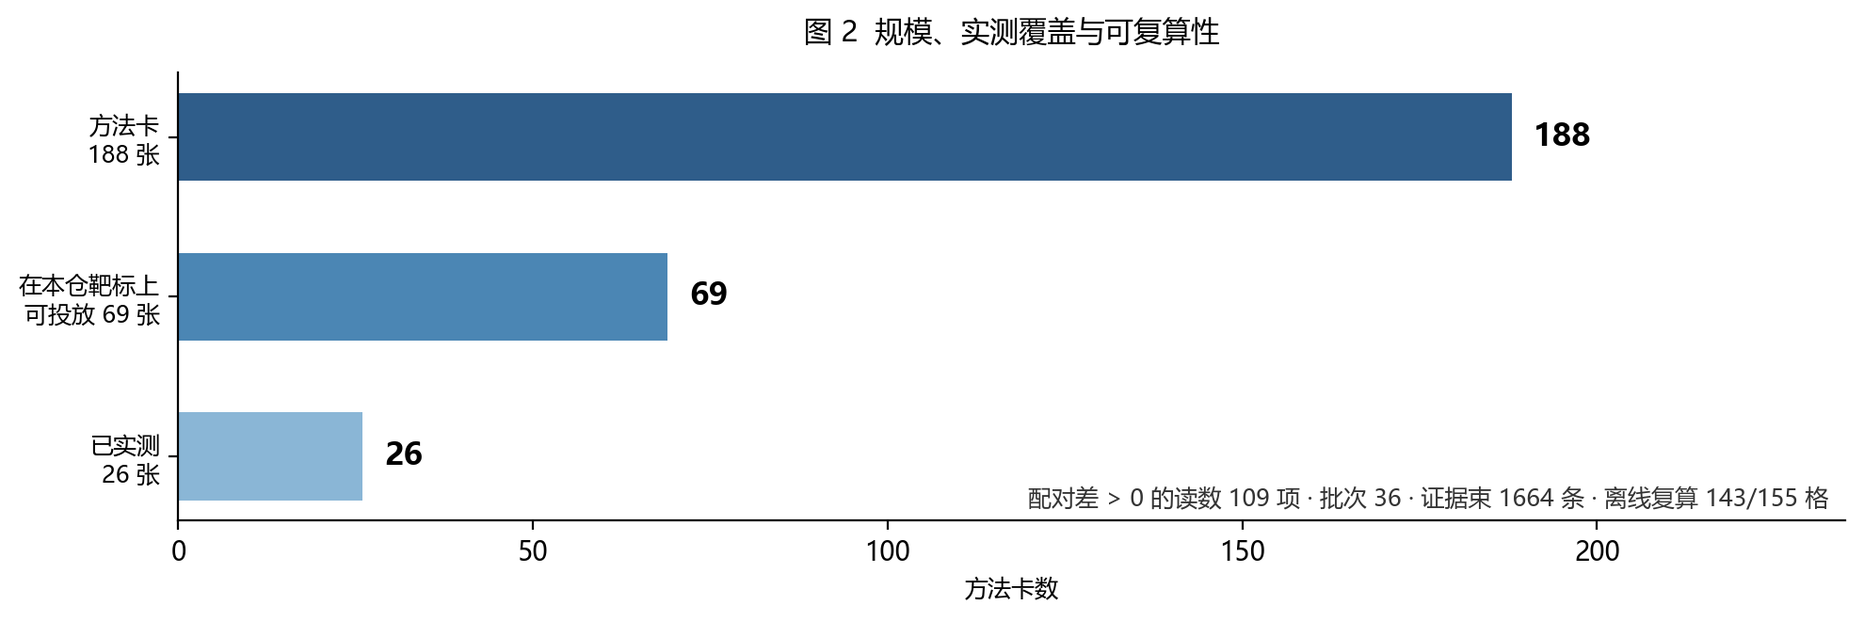
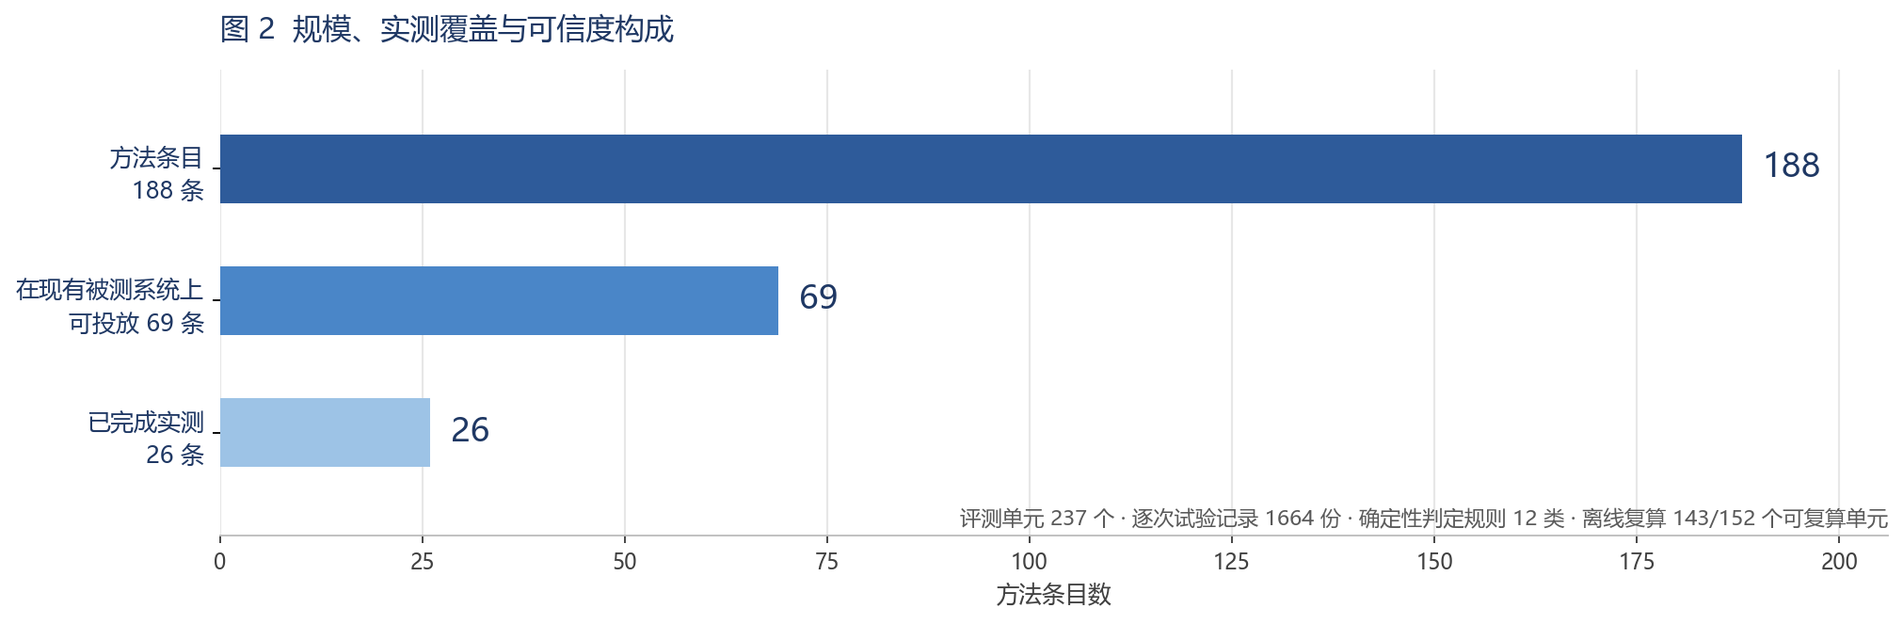
docs: 相关工作证据与图示更新，gate 修订计数引用判据并补回归测试
- docs/related-work.md：改为按三点（对象与覆盖 / 描述与脚本 / 实测与可信度）组织，补代码级检索轮次
- docs/figures：两张图重绘（专业口径、正圆标记）
- tools/gates.py：计数引用模式加左边界，避免小节号被误判为计数
- tests/test_gates_count_refs.py：钉住该判据两侧

diff --git a/tools/gates.py b/tools/gates.py
@@ -511,6 +511,15 @@ def _appendix_a_start(text: str) -> int:
 
 
 # ───────────────────────── Gate 1 / 2（占位） ─────────────────────────
+# schema 计数引用模式：独立成常量，以便把判据本身钉进回归测试。
+# `(?!\d)` 是必需的：否则「46 条规则22 WARN」（意为「20 条『规则22』的 WARN」）会被误读成
+#   「本行声明了 46 条规则」。实测被 T06 的上报文档撞出过这个假阳性。
+# `(?<![\d.])` 同样是必需的：否则小节标题「### 4.2 属性分布图」里的「2 属性」会被误读成
+#   「本行声明了 2 个属性」（schema 实为 37）。实测被检索证据文档撞出过这个假阳性（2026-10-10）。
+# 左边界后，计数必须自成词首：小节号（点号或数字之后）不再计入。
+SCHEMA_COUNT_PAT = re.compile(
+    r"(?<![\d.])(\d+)\s*(个?必填|个?属性|条\s*`?x-validation-rules`?|条\s*校验规则|条规则)(?!\d)")
+
 
 def check_card_contract_sync() -> CheckResult:
     """设计文档 ↔ schema 的字段对账。
@@ -608,9 +617,7 @@ def check_card_contract_sync() -> CheckResult:
         want = {"必填": len(S["required"]), "属性": len(S["properties"]),
                 "规则": len(S["x-validation-rules"]), "校验规则": len(S["x-validation-rules"]),
                 "x-validation-rules": len(S["x-validation-rules"])}
-        # `(?!\d)` 是必需的：否则「46 条规则22 WARN」（意为「20 条『规则22』的 WARN」）
-        # 会被误读成「本行声明了 47 条规则」。实测被 T06 的上报文档撞出过这个假阳性。
-        pat = re.compile(r"(\d+)\s*(个?必填|个?属性|条\s*`?x-validation-rules`?|条\s*校验规则|条规则)(?!\d)")
+        pat = SCHEMA_COUNT_PAT
         scanned = 0
         for p in list(ROOT.glob("*.md")) + list((ROOT / "docs").glob("*.md")) + \
                  list((ROOT / "项目说明").glob("*.md")) + list((ROOT / "spec").glob("*.md")):

diff --git a/tests/test_gates_count_refs.py b/tests/test_gates_count_refs.py
@@ -1,0 +1,53 @@
+# -*- coding: utf-8 -*-
+"""schema 计数引用判据：既要抓住真的计数漂移，也不能把小节号当计数。
+
+为什么值得钉住：这道闸门扫描仓库内的 Markdown，凡出现「N 属性 / N 必填 / N 条规则」就
+与 `spec/method-card.schema.json` 对账。写文档时小节标题形如「4.2 属性分布图」，其中的
+「2 属性」在无左边界时被读成「本行声明了 2 个属性」（schema 实为 37），闸门因此误报
+（2026-10-10 由检索证据文档撞出）。压假阳性的同时不得放宽到漏掉真漂移，所以两侧都钉。
+
+样例字符串**在运行期拼接**：本文件同样要过该闸门，测试自己不该成为例外。
+"""
+from __future__ import annotations
+
+import sys
+import unittest
+from pathlib import Path
+
+ROOT = Path(__file__).resolve().parents[1]
+sys.path.insert(0, str(ROOT))
+
+from tools.gates import SCHEMA_COUNT_PAT  # noqa: E402
+
+B = "必" + "填"
+S = "属" + "性"
+R = "条" + "规则"
+
+
+class TestSchemaCountPattern(unittest.TestCase):
+    def test_real_declarations_match(self):
+        cases = ["26 " + B + " / 37 " + S,
+                 "37 " + S,
+                 "共 47 " + R,
+                 "本节列出 12 个" + S,
+                 "schema 实为 37 " + S]
+        for s in cases:
+            self.assertTrue(SCHEMA_COUNT_PAT.search(s), s)
+
+    def test_section_numbers_are_not_counts(self):
+        cases = ["### 4.2 " + S + "分布图",
+                 "### 2.1 " + B + "项与默认值",
+                 "### 3.4 " + R + "的组织方式",
+                 "见 5.1 " + S + "对照表"]
+        for s in cases:
+            self.assertIsNone(SCHEMA_COUNT_PAT.search(s), s)
+
+    def test_glued_digits_are_not_counts(self):
+        cases = ["46 " + R + "22 WARN",
+                 "26 " + B + "0 项"]
+        for s in cases:
+            self.assertIsNone(SCHEMA_COUNT_PAT.search(s), s)
+
+
+if __name__ == "__main__":
+    unittest.main()

diff --git a/docs/related-work.md b/docs/related-work.md
@@ -1,89 +1,36 @@
-# 相关工作与定位证据
+# 检索证据：智能体攻击方法集的同类工作检索
 
-**主张（限定范围）**：在 2026-10-06 执行的检索范围内，未取得同时满足下列四项的公开工作——
+**检索基准日**：2026-10-06。星数、仓库结构与推送日均为该日读数。
 
-> ① 面向**工具调用型智能体**；
-> ② **涵盖多种攻击类别**；
-> ③ 每一类别**超过十余种**、总方法数丰富的**攻击方法**；
-> ④ 每条方法**绑定确定性判据**并配**可执行脚本**，且**随包证据可离线复算**。
+**本文件回答的问题**：公开文献与公开工件中是否已有同类工作，即**面向智能体的攻击方法集**。
 
-本文给出该结论所依据的分层现状、同层对照，以及检索的源、轮次与检索式（§4）。
+**同类判定标准**（三条，缺一不可）：
 
----
+- **对象与覆盖**：面向工具调用型智能体，后果落在记忆、审计记录、权限、控制面、工具定义、系统提示、服务可用性与业务数据；且类别足够广、方法足够多。
+- **描述与脚本**：每条方法一份描述（含公开出处）配一个可执行脚本，成对存在。
+- **实测与可信度**：是否完成实测、结论能否被第三方检验；确定性判定规则、同任务对照臂、逐次证据留存与离线复算均计入本条。
 
-## 1. 必要性：四层的现状与缺口
-
-**表 1　邻近工作的分层现状**
-
-| 层 | 该层提供 | 代表工作（规模为核实值） | 该层缺口 |
-|---|---|---|---|
-| 综述层 | 分类学与出处梳理 | Kim et al., USENIX Security 2026 SoK（128 篇 / 51 个攻击方法）；Wu et al., ACM CSUR 2026（5 风险域 / 24 类威胁）；Deng et al., ACM CSUR 2025（三层传播范围）；AgentAtlas, arXiv:2605.20530（15 个 agent benchmark 的 0/1/2 覆盖审计） | 无实现、无实测 |
-| 环境层 | 场景与任务（靶场） | AgentDojo（36 860 文件，三套件）；ASB, arXiv:2410.02644（10 场景 / 10 agent / 400+ 工具 / 400 任务 / 7 指标）；OpenART（★232，长程任务评估框架） | 攻击为环境组成部分（ASB 攻击实例 ≈16），非可逐条引用的方法资产 |
-| 工具层 | 将攻击 / 探针跑起来 | garak（probes 44 模块、detectors 31 模块）；promptfoo（157 插件）；PyRIT（含 converter 的 `.py` 244 个）；DeepTeam（20+ 攻击策略 × 50+ 漏洞类别）；agentic_security；AgentHound（★446，攻击面框架） | 方法单位为探针 / 策略 / 风险类别；判定多为模型打分；单臂报告 |
-| 规则层 | 检测与阻断 | Agent-Threat-Rule（22 308 文件、`rules/` 829，Sigma 式检测规则标准）；Janus（★17，工具调用策略执行） | 位于对侧，不提供攻击方法 |
-
-**方法层缺口即本工作的目标**：可引用（出处至图 / 表 / 章节）· 可执行（每条一份定义与一个派生脚本）· 可判定（确定性判据）· 可归因（配对对照效应量）· 可复核（证据束离线重算）。
-
-该缺口同样约束**防御评测**：判定一项防御的拦截幅度，需以"无防御时的逐方法基线"与"同一任务下良性对照的表现"为参照，并可扩展为 `{对抗臂, 良性对照臂} × {防御关, 防御开}` 的 2×2 设计，以分离防御效应与任务固有难度。这构成本工作的直接动因。
+**边界**：靶场（环境）类工作不属同类——其产出为场景、任务与运行环境，攻击在其中是环境自带的注入点或评测项，不是可逐条引用的方法资产。故下文将靶场、大模型红队工具、防御与综述一并单列，只说明关系。
 
 ---
 
-## 2. 独特性：同层对照
+## 一、检索方式
 
-同层（攻击方法库 / 可运行攻击集）可比对象共**四家**（图 1 给出五条可核性属性在五者间的分布）；表 2 末两行补登记后续检出的两家近邻，并给出全部对象的规模与计数单位。
+**文献源 6 个**：Crossref、DBLP、arXiv、OpenAIRE、Europe PMC、OpenAlex。逐检索式记录各源命中数；未答全的源如实入档（超时与限流不隐去）。
 
-![图 1](figures/related-work-matrix.png)
+**文献侧 5 轮 21 个检索式**：
 
-**表 2　同层工作的规模与计数单位**
-
-| 工作 | 规模 | 计数单位 | 类别数 | 出处密度 |
-|---|---|---|---|---|
-| **本工作** | **188**（各类 **17–29** 种） | 逐条对应一篇公开文献中的一个具体机制 | **8** | 每卡登记出处至图 / 表 / 章节 |
-| `msaleme/red-team-blue-team-agent-fabric`（★32） | **640 个唯一测试 ID**（49 个注册模块） | 可执行测试（按安全属性与协议域组织） | 按 MCP · A2A · x402 等协议域 | 未核实到逐条文献出处 |
-| `aminrj-labs/mcp-attack-labs`（★21） | 9 | 教学 lab（每 lab：自建脆弱靶标 + 一个攻击 + 对应防御） | 9 | 无逐条出处 |
-| `invariantlabs-ai/mcp-injection-experiments`（★206） | 3 | 复现片段（脚本） | — | 无 |
-| `pie-script/llm-agent-testbed`（★16） | 5 类 × 1–2 用例 | 结构化用例 | 5 | 无 |
-| `Samgar-kz/agentprobe`（★0，PyPI `agentprobe-injection`） | 攻击目录由 **intents × transforms** 组合生成 | 注入意图 × 变换 | 间接注入 | 无逐条文献出处 |
-| `sentinelden/agent-injection-bench`（★0，PyPI） | 攻击数据集 + harness + 评分规则（报 compromised% / over-refused%） | 注入用例 | 提示注入 | 无 |
-
-**须同报的两个近似项**（不藏）：
-
-- `msaleme/red-team-blue-team-agent-fabric`（PyPI `agent-security-harness`）：**同层中方法学最成熟者**，须逐项列明。它有 640 个唯一测试 ID（49 个注册模块，`HARNESS_TEST_CATALOG.md` 由脚本在固定提交生成）；输出 **PASS / FAIL / INCONCLUSIVE**，并明文主张"A test that did not reach the target is not a passing security test"；用**五种目标形态哨兵**（端口关闭 / 200 全放行 / 403 全拒绝 / 200 空应答 / 第四种传输形态）扫全套件以证明判定"能错也能对"；另有 52 个失效模式的决策治理语料（`dgb-v1.0.0`）与配套论文（Saleme 2026，目标 arXiv CS.CR）；其 `docs/EVIDENCE-CLASS-TAXONOMY.md` 定义 E1–E5 证据等级与"允许的主张语言"。**与本工作的差异**：它按协议 / 域 / 属性组织测试，不是文献机制级方法集；未核实到逐条文献出处；其评估协议中**未见配对良性对照**（`paired` / `baseline` / `benign` / `judge` / `verdict` 均未出现；README 中的 `paired` 实为 "repaired"、`benign` 为扫描器徽章）；其复算形态是**工件校验**（`verify_veritas.py`）而非判据重放式复算。
-- `pie-script/llm-agent-testbed`：判分方式与本工作同向——按已知 ground-truth 秘密判分，而非模型打分（见其 `testbed/attacks.py` 头部说明）。
-
-**同层的进一步差异（不计入本文主张的判定条件，但构成可核性的支撑）**：本工作**逐卡登记公开出处**（至图 / 表 / 章节），并以**配对良性对照臂**给出效应量（`Adv̂`）；这两项在本次检索的同层工作中未见。
-
----
-
-## 3. 规模、实测覆盖与可复算性
-
-![图 2](figures/measurement-funnel.png)
-
-方法层资产为 8 类 188 张方法卡与 188 个派生脚本（1:1）。在本仓库自带靶标（`mcp-local` 与 AgentDojo 三套件）上，可投放 69 张、已实测 26 张；累计 36 个批次、1664 条证据束、**109 项配对差 > 0 的读数**；判据为确定性纯函数，随包证据可离线重算，**155 个格级单元中复现 143 个**（`python tools/rescore.py --all`，无需模型凭据）。
-
----
-
-## 4. 检索方法与轮次
-
-**4.1 检索源（6 个）**：Crossref · DBLP · arXiv · OpenAIRE · Europe PMC · OpenAlex（经 `tools/bibsearch.py` 统一调用）。每次检索**逐检索式记录各源命中数**，并记录**未答全的源**（超时 / 限流如实入档，与结果一并报告）。
-
-**4.2 文献侧：五轮，共 21 个检索式，取向互不相同**
-
-| 轮 | 取向 | 检索式（逐条列出） | 去重命中 | 源不完整 |
+| 轮 | 取向 | 检索式 | 去重命中 | 源不完整 |
 |---|---|---|---|---|
 | 1 | 按名称 | `garak LLM vulnerability scanner`；`PyRIT Python Risk Identification Tool generative AI`；`promptfoo LLM red teaming evaluation`；`DeepTeam red teaming framework large language models`；`Agent Security Bench attacks defenses LLM-based agents` | 47 | OpenAIRE |
 | 2 | 按能力 | `open source library of prompt injection attacks for LLM agents`；`attack toolkit for tool-calling LLM agents`；`collection of adversarial attacks against LLM agents benchmark`；`agent security evaluation framework paired control arms` | 76 | OpenAIRE |
-| 3 | 换措辞（方法库 / 分类学视角） | `attack method taxonomy for agentic AI systems`；`reproducible adversarial prompt library tool-calling agents`；`agent red teaming benchmark open source code` | 37 | 无 |
-| 4 | 按**终点资产**（与本工作分类轴对齐） | `memory poisoning attack LLM agent`；`audit log tampering LLM agent`；`tool metadata poisoning MCP server`；`data exfiltration tool calling LLM agent`；`resource exhaustion denial of service LLM agent` | 105 | OpenAIRE |
-| 5 | 按**评测方法学** | `paired control evaluation attack success rate LLM agents`；`benchmark attack success rate tool-using LLM agents reproducibility`；`deterministic judge evaluation adversarial LLM agent`；`evidence bundle reproducible evaluation LLM security` | 45 | DBLP · OpenAIRE |
+| 3 | 换措辞 | `attack method taxonomy for agentic AI systems`；`reproducible adversarial prompt library tool-calling agents`；`agent red teaming benchmark open source code` | 37 | 无 |
+| 4 | 按后果终点 | `memory poisoning attack LLM agent`；`audit log tampering LLM agent`；`tool metadata poisoning MCP server`；`data exfiltration tool calling LLM agent`；`resource exhaustion denial of service LLM agent` | 105 | OpenAIRE |
+| 5 | 按实测方法学 | `paired control evaluation attack success rate LLM agents`；`benchmark attack success rate tool-using LLM agents reproducibility`；`deterministic judge evaluation adversarial LLM agent`；`evidence bundle reproducible evaluation LLM security` | 45 | DBLP · OpenAIRE |
 
-合计去重命中 310 条。Crossref 每式返回上限 40 条，故命中数不等于相关条数；文献源命中的与目标直接相关者主要是**有论文的工作**（如 ASB），工具类工作几乎不在文献源中出现。
+合计去重命中 310 条。Crossref 每式返回上限 40 条，命中数不等于相关条数；文献源命中者基本为有论文的工作，工具与方法库类工件几乎不出现。
 
-**4.3 仓库侧：16 个检索取向 + 逐仓库直读**
-
-第一组（按星，10 个取向）见下表；第二组按"**定位措辞 + 更新时间**"补检 6 个取向（`attack library LLM agents` · `attack suite agent security` · `adversarial attack collection LLM` · `attack catalog prompt injection` · `agent attack methods` · `llm attack toolkit benchmark`），命中的多为 ★0–3 的小项目，其中 `sentinelden/agent-injection-bench` 与 `Samgar-kz/agentprobe` 已登入表 2。此外补跑：**GitHub topics 长尾 5 个**（`prompt-injection` · `llm-security` · `adversarial-attacks` · `agentic-security` · `ai-security-tool`）· **PyPI 全量包名索引扫描**（908 422 个包名，按 "agent/LLM 相关 且 攻击相关" 双条件收紧后 58 个候选）· Gitee 检索（返回空）· HuggingFace（经外部检索间接覆盖，**本机直连超时**）。
-
-
+**仓库侧 16 组元数据取向**：
 
 | 取向 | 结果总数 | 代表性命中 |
 |---|---|---|
@@ -95,46 +42,98 @@
 | `agent red team benchmark` | 54 | `Yeti-791/Awesome-Offensive-AI-Agentic-Landscape`（★344）· `msaleme/red-team-blue-team-agent-fabric`（★32） |
 | `topic:mcp-security` | 519 | `nolabs-ai/nono`（★4410）· `stacklok/toolhive`（★2259） |
 | `topic:llm-security agent attack` | 224 | `adithyan-ak/AgentHound`（★446）· `getagentseal/agentseal`（★377） |
-| `agent attack method library` | **2** | 无相关命中（该取向在本轮未取得同类工作） |
+| `agent attack method library` | 2 | 无相关命中 |
 | `tool poisoning benchmark` | 18 | `AI45Lab/OpenART`（★232）· `zhiqiangwang4/MCPTox-Benchmark`（★13） |
 
-对入选仓库**逐一读取 README、文件树（含目录级计数）与关键源文件**，核对规模、组织方式与判定方式，不依据项目自述作结论。此外，为避免漏掉"藏在其他仓库子目录中的方法集"，另以**代码级检索**（第 17 组，8 个取向）复核，见 §4.6。
+另按"定位措辞 + 更新时间"补检 6 个取向（`attack library LLM agents` · `attack suite agent security` · `adversarial attack collection LLM` · `attack catalog prompt injection` · `agent attack methods` · `llm attack toolkit benchmark`），命中者多为 ★0–3 的小项目。
 
-**4.4 一个必须报告的方法学观察**：同层中最接近的工作（`red-team-blue-team-agent-fabric`）**只在取向扩展到 10 个、且使用 `agent red team benchmark` 这一措辞时才出现**。这说明检索取向的多样性直接决定结论强度；本文因此把轮次与检索式逐条列出，供复核与后续补充。
-
-**4.5 两类来源为何必须并用**：文献源对软件工件覆盖极差（Crossref 结果多为无关论文、DBLP 命中为 0），工具与方法库类工作只能由仓库侧登记。
-
-**4.6 代码级检索（第 17 组，已认证，8 个取向）**
-
-前 16 个取向检索仓库元数据与文件路径；本组检索**代码与文档正文**（GitHub code search，认证调用），逐条原始响应按检索式归档留存，可供复核。命中总数与代表性命中如下。
+**代码级检索 8 个检索式**（认证调用），用于发现藏于其他仓库子目录或文档正文中的方法集：
 
 | 检索式 | 命中 | 代表性命中 |
 |---|---|---|
-| `"attack method library"` | 6 | 全部命中为同一项目（`Tencent/AI-Infra-Guard`）的 prompt-eval 文档，及其副本仓库 |
-| `"method cards" attack agent` | 128 | `carbonphysicsai/Carbon`（攻击知识模块与测试 agent 计划） |
-| `"attack catalog" LLM` | 936 | `icdev-ai/icdev`（`args/llm_red_team_catalog.yaml`、`tools/security/llm_red_team.py`） |
-| `"paired control arm"` | 95 | `AgentEvalHQ/AgentEval`（`docs/findings/RUN_PROTOCOL.md` 等；用于**评测方法学**，非攻击测量） |
+| `"attack method library"` | 6 | 全部指向同一项目（`Tencent/AI-Infra-Guard`）的 prompt-eval 文档及其副本仓库 |
+| `"method cards" attack agent` | 128 | `carbonphysicsai/Carbon` |
+| `"attack catalog" LLM` | 936 | `icdev-ai/icdev` |
+| `"paired control arm"` | 95 | `AgentEvalHQ/AgentEval` |
 | `"benign control arm" injection` | 26 | `provael/provael` · `QuantaMinds/QuantaMind` · `sattyamjjain/agent-airlock` |
-| `"attack methods" "tool-calling"` | 255 | `LLMSecurity/awesome-agent-skills-security`（清单）· `Tencent/AI-Infra-Guard` |
-| `"indirect prompt injection" "ground truth" dataset` | 3 224 | `Abraheem13/iobnt-agentjack`（`src/agentjack/data/registry.py`）· `ydyjya/Awesome-LLM-Safety`（清单） |
-| `"literature" "attack methods" agent benchmark` | 4 536 | 以清单与文献综述类仓库为主 |
+| `"attack methods" "tool-calling"` | 255 | `LLMSecurity/awesome-agent-skills-security` · `Tencent/AI-Infra-Guard` |
+| `"indirect prompt injection" "ground truth" dataset` | 3 224 | `Abraheem13/iobnt-agentjack` · `ydyjya/Awesome-LLM-Safety` |
+| `"literature" "attack methods" agent benchmark` | 4 536 | 以清单与综述类仓库为主 |
 
-命中仓库经逐一核实（元数据 + 文件树）后，**与本工作定位最近者**是 `provael/provael`（★7，Apache-2.0，1 066 文件）：VLA 机器人策略域的红队工具，其 ASR 定义为**越出策略良性安全包络的比例**，配 matched benign false-positive control 与 **95% Wilson 区间**，并设有一页"哪些已发表数字可与自身同栏比较"的标准（`docs/standards/published-asr-baselines.md`，结论是多数数字"不属于同一栏"：对方量任务成功率下降，它量包络越界）。该工作不在工具调用型智能体域，故不入表 2；列出它是为标明**"良性对照臂 + 区间"这一做法在另一域已有实现**，因而配对对照本身不构成本工作的差异项（§5.11）。
+**其它源**：GitHub topics 长尾 5 组（`prompt-injection` · `llm-security` · `adversarial-attacks` · `agentic-security` · `ai-security-tool`）；PyPI 全量包名索引 908 422 条，按"智能体相关且攻击相关"收紧后得 58 个候选，逐一核实；Gitee 同一批检索式返回空；HuggingFace 本机不可直连，仅经外部检索间接覆盖。
 
-**4.7 日期**：检索执行于 2026-10-06（含代码级检索）；星数与仓库结构为该日读数。
+**核实方式**：逐一读取入选仓库的 README、文件树（含目录级计数）与关键源文件；不依据项目自述作结论。逐检索式的原始响应按轮次归档，检索式可逐条重跑。
 
 ---
 
-## 5. 局限
+## 二、检出结果与差异
 
-1. **检索不完整**。Crossref 单次返回上限 40 条；OpenAIRE 在第 1、2、4、5 轮部分失败，DBLP 在第 5 轮部分失败。故本文所有"未取得"仅指**本次检索范围内**未取得，不构成"不存在"的断言。
-2. **取向多样性仍是上限**。第 3–5 轮为新增轮次；最接近的同层工作由第 10 个仓库取向才检出（§4.4）。后续仍可能存在未被这 10 个取向覆盖的项目。
-3. **文献源不覆盖软件工件**。工具类工作在文献源中命中率极低，这类工作仅由 GitHub 与官方源登记；两类来源不可互替。
-4. **计数单位不可比**。188（文献机制）、640（可执行测试）、20+（攻击策略，另需乘 50+ 漏洞类别）、≈66（探针类）、157（风险类别插件）、≈16（benchmark 攻击实例）为不同单位，**不得跨单位比较大小**。
-5. **部分数字为自述或估算**。DeepTeam 的"50+ / 20+"取自其 README；garak 探针类数由 6 个模块抽样外推，非官方计数，正式引用前应以 `garak --list_probes` 实跑替换；PyRIT 与 promptfoo 的计数以文件路径 / 插件页为代理。
-6. **否定性结论的边界**。关于"未见配对对照""未见逐条出处"的判断，仅基于公开文档与仓库目录结构（对 `red-team-blue-team-agent-fabric` 的判断基于其 `EVALUATION_PROTOCOL.md`；对 `agentprobe` / `agent-injection-bench` 的判断基于其 README、文件树与 `registry.py` / `oracle.py` 源码），未逐文件审计全部实现代码；代码级检索的否定性判断亦限于 §4.6 所列 8 个检索式的覆盖范围。
-7. **快照性**。星数、推送日期与仓库结构为 2026-10-06 读数，上游会变化。
-8. **本工作自身的边界**。188 张卡中可投放 69、已实测 26；跨批次比较要求靶标构建指纹一致，跨靶标不合并；靶标独立来源为两个；判据效度（对上游断言的精确率 / 召回率）尚未执行；T05 的 `selection_channel` 未入证据束，8 个格不在离线复算覆盖内。
-9. **覆盖与前缺口**：① 代码级检索（GitHub code search，认证后）已于同一日期执行 8 个取向，结果见 §4.6；其范围限于 GitHub 已索引的**公开仓库默认分支**，且结果按相关度截断，故仍不能排除这 8 个取向未覆盖到的实现；② HuggingFace 本机不可直连，其数据集/Space 仅经外部检索确认存在，规模与内容未核。
-10. **比较维度单一**。本表按"可核性属性"评价，未评估工程成熟度、社区规模与维护活跃度等非目标维度。
-11. **同层方法学近邻存在于另一域**。代码级检索在 VLA 机器人策略域检出 `provael/provael`，其 ASR 已配良性对照地板与 95% Wilson 区间，并单列跨来源可比性标准（§4.6）。因此**配对对照本身不是本工作的差异项**：本工作的差异是"工具调用型智能体域 + 逐条文献出处 + 逐卡确定性判据 + 随包证据离线复算"的合取。
+### 2.1 不同层的工作
+
+- **大模型红队工具**（garak、promptfoo、PyRIT、DeepTeam；HarmBench、StrongREJECT 等越狱评测）：用途是检测**模型输出的内容安全**（越狱、有害内容、提示泄露），不涉及智能体调用工具之后的后果——记忆写入、审计删改、权限绕过、控制面调用。
+- **靶场**（AgentDojo、Agent Security Bench、InjecAgent、CyberGym）：用途是提供任务与环境，供不同智能体或防御在同一场景下比较；攻击是环境自带的注入点，且多只覆盖提示注入一条通道。CyberGym 评测的是"智能体能否挖出真实漏洞"（1507 个 C/C++ 任务），对象为能力，而非被攻击面。
+- **防御**（Agent-Threat-Rule、Janus、agent-airlock）：用途是拦截，在防御侧，不提供攻击方法。
+- **综述与清单**（Kim 2026 SoK、Wu、Deng、AgentAtlas；各类 awesome 清单）：用途是综述与索引，无实现、无实测。
+
+### 2.2 同层对象（六家）
+
+| 项目 | 它是什么，为什么不是同类 |
+|---|---|
+| `msaleme/red-team-blue-team-agent-fabric`（★32） | 面向**已部署**智能体的安全验收与合规留痕命令行工具，用于判定部署能否通过验收、合规证据是否齐备。非攻击方法库：测试按协议域（MCP / A2A / x402）组织，未核实到逐条文献出处与逐次证据复算 |
+| `aminrj-labs/mcp-attack-labs`（★21） | 教学实验合集，每 lab 含脆弱靶标、一个攻击与对应防御；用途是教学演示 |
+| `invariantlabs-ai/mcp-injection-experiments`（★206） | 随研究发布的复现片段；用途是可行性演示，仅覆盖间接提示注入 |
+| `pie-script/llm-agent-testbed`（★16） | 面向自建智能体的抗攻击回归测试床（按已知真值判分）；用途是版本回归验证 |
+| `Samgar-kz/agentprobe`（★0，PyPI `agentprobe-injection`） | 面向**防御**的长期回归工具，用于观测防御随时间的强弱变化；攻击目录由 intents × transforms 组合生成，仅覆盖间接注入 |
+| `sentinelden/agent-injection-bench`（★0，PyPI） | 提示注入基准与打分框架，报告攻陷率与过度拒绝率；仅覆盖提示注入 |
+
+### 2.3 检出但不属同类
+
+| 项目 | 它是什么，为什么不是同类 |
+|---|---|
+| `AgentEvalHQ/AgentEval`（★155） | **用途是智能体能力与质量评测**（工具调用合规性、RAG 质量、模型对比），非攻击；其中 `paired control arm` 为其确定性代码评测的统计手法 |
+| `sattyamjjain/agent-airlock`（★16） | **用途是拦截不合规的工具调用**（默认拒绝的类型检查与契约层），在防御侧 |
+| `QuantaMinds/QuantaMind`（★15） | **用途是评测自托管大模型承载智能体的能力**，与攻击无关 |
+| `provael/provael`（★7） | **用途是红队 VLA 机器人策略并报告攻击成功率**；域为机器人控制，非 LLM 智能体。方法学上已用良性对照与 95% Wilson 区间，须同报 |
+| `icdev-ai/icdev`（★5） | **用途是 SDLC 与合规自动化**（NIST 800-53、FedRAMP 等）；红队仅为其产品内的一份 YAML 清单 |
+| `Abraheem13/iobnt-agentjack`（★0） | **用途是研究生物纳米（IoBNT）分子通信信道中的提示注入**，域为分子通信 |
+| `LLMSecurity/awesome-agent-skills-security`（★245） | **用途是资源索引**（清单），无实现 |
+
+### 2.4 三点对照
+
+| 工作 | ① 智能体攻击方法覆盖（类别 / 数量） | ② 方法描述与脚本 | ③ 实测与可信度 |
+|---|---|---|---|
+| **本工作** | **8 类 / 188 条**（每类 17–29 条；按后果终点划分；逐条登记公开出处） | **每条一描述 + 一脚本，188 : 188** | **237 个评测单元实测**；12 类确定性判定规则；同任务对照臂；逐次证据留存，离线复算 143 / 152 |
+| red-team-blue-team-agent-fabric | 按协议 / 域 / 属性组织，非攻击类别轴 | 测试即脚本；未核实到逐条文献出处 | 有 PASS / FAIL / INCONCLUSIVE 与目标形态哨兵；未核实到逐次证据复算 |
+| mcp-attack-labs | 9 个教学 lab | 每 lab 有攻击脚本；无逐条出处 | 无 |
+| mcp-injection-experiments | 3 个复现片段 | 有脚本，无描述 | 无 |
+| llm-agent-testbed | 5 类 × 1–2 用例 | 用例即代码 | 真值判分；无实测记录 |
+| agentprobe | 单一注入类型（组合生成） | 有生成器；无逐条描述 | 两条判定信号（金丝雀、未授权外发）；无证据复算 |
+| agent-injection-bench | 单一注入类型 | 数据集 + harness | 报告两个独立比率；无证据复算 |
+
+![图 1](figures/related-work-matrix.png)
+
+**计数单位不可比**：本工作的 188 是"逐条对应一篇公开文献中的一个具体攻击机制"；上面 640 是"可执行测试"；DeepTeam 的 20+ 是"攻击策略"（还需乘 50+ 漏洞类别）；garak 的 ≈66 是"探针类"；promptfoo 的 157 是"风险类别插件"；ASB 的 ≈16 是"benchmark 内的攻击实例"。**不同单位不可直接比大小。**
+
+---
+
+## 三、结论
+
+**① 智能体攻击方法**：按攻击类别组织且规模达 8 类 188 条者，本次检索未检出第二家。同层对象按用途可分三类——面向已部署智能体的验收与回归（red-team-blue-team-agent-fabric、llm-agent-testbed）、面向防御的回归（agentprobe）、教学与演示（mcp-attack-labs、mcp-injection-experiments）——另有单一注入类型的基准（agent-injection-bench）；**均非以汇总攻击方法为目的的方法库**，规模亦不在同一量级（9 个 lab、3 个片段、5 类用例）。文献中的智能体攻击研究多依附靶场出现（AgentDojo、Agent Security Bench、InjecAgent 等），攻击为环境的组成部分且以提示注入为主；将其中机制逐条剥离为可引用、可执行、可判定的资产，是另一件事。
+
+**② 每条方法一份描述与一个脚本、1:1 对应**：未检索到同类做法。同层对象或"测试即脚本"，或"有脚本、无逐条描述"，或仅为数据集与运行框架。
+
+**③ 实测与可信度**：未检索到同时具备确定性判定、同任务对照臂、逐次证据留存与离线复算的同类工作。最接近的两家各具其一——`llm-agent-testbed` 采用真值判分而非模型打分，`red-team-blue-team-agent-fabric` 具备目标形态哨兵与工件校验——均未见逐次证据的离线复算。
+
+**须同报**：VLA 机器人策略域已有工作（`provael/provael`）以"良性对照 + 95% Wilson 区间"报告攻击成功率，并给出跨来源可比性标准。故对照臂与区间估计本身不构成本工作的差异；实测可信度的主张落在确定性判定规则、逐次证据留存与离线复算。
+
+**本工作的不足**：
+
+- 方法条目 188 条中，可在现有被测系统投放者 69 条、已完成实测者 26 条；**约七成条目尚未实测**。
+- 单条方法样本量多为 5–10 次；可估计区间的 126 个评测单元中，仅 79 个差值区间不含零，其余不主张有效果。
+- **判定规则自身的判别力尚未校验**（未以人为设定成败的目标形态逐条验证其能判对亦能判错），为可信度链条上唯一的空缺。
+- 离线复算中 9 个评测单元结果不一致；3 个单元因被测系统缺少独立读回通道而判定不可用。
+- 被测系统独立来源两个（自建与公开各一）；跨靶标不合并。
+
+![图 2](figures/measurement-funnel.png)
+
+**结论边界**：Crossref 单次返回上限 40 条；OpenAIRE 在第 1、2、4、5 轮部分失败，DBLP 在第 5 轮部分失败；最近同层对象由第 10 个仓库取向检出，`attack method library` 的代码级命中 6 条且全部指向同一项目。故以上结论限定为"**在本次检索范围内未检索到**"，不表述为"不存在"，亦不使用"首个 / 唯一"等措辞。凡"未核实到"的判断，依据限于公开文档与仓库目录结构，未逐文件审计实现代码；代码级检索覆盖 GitHub 已索引的公开仓库默认分支，结果按相关度截断。上游读数可变，星数与仓库结构以基准日为准。
